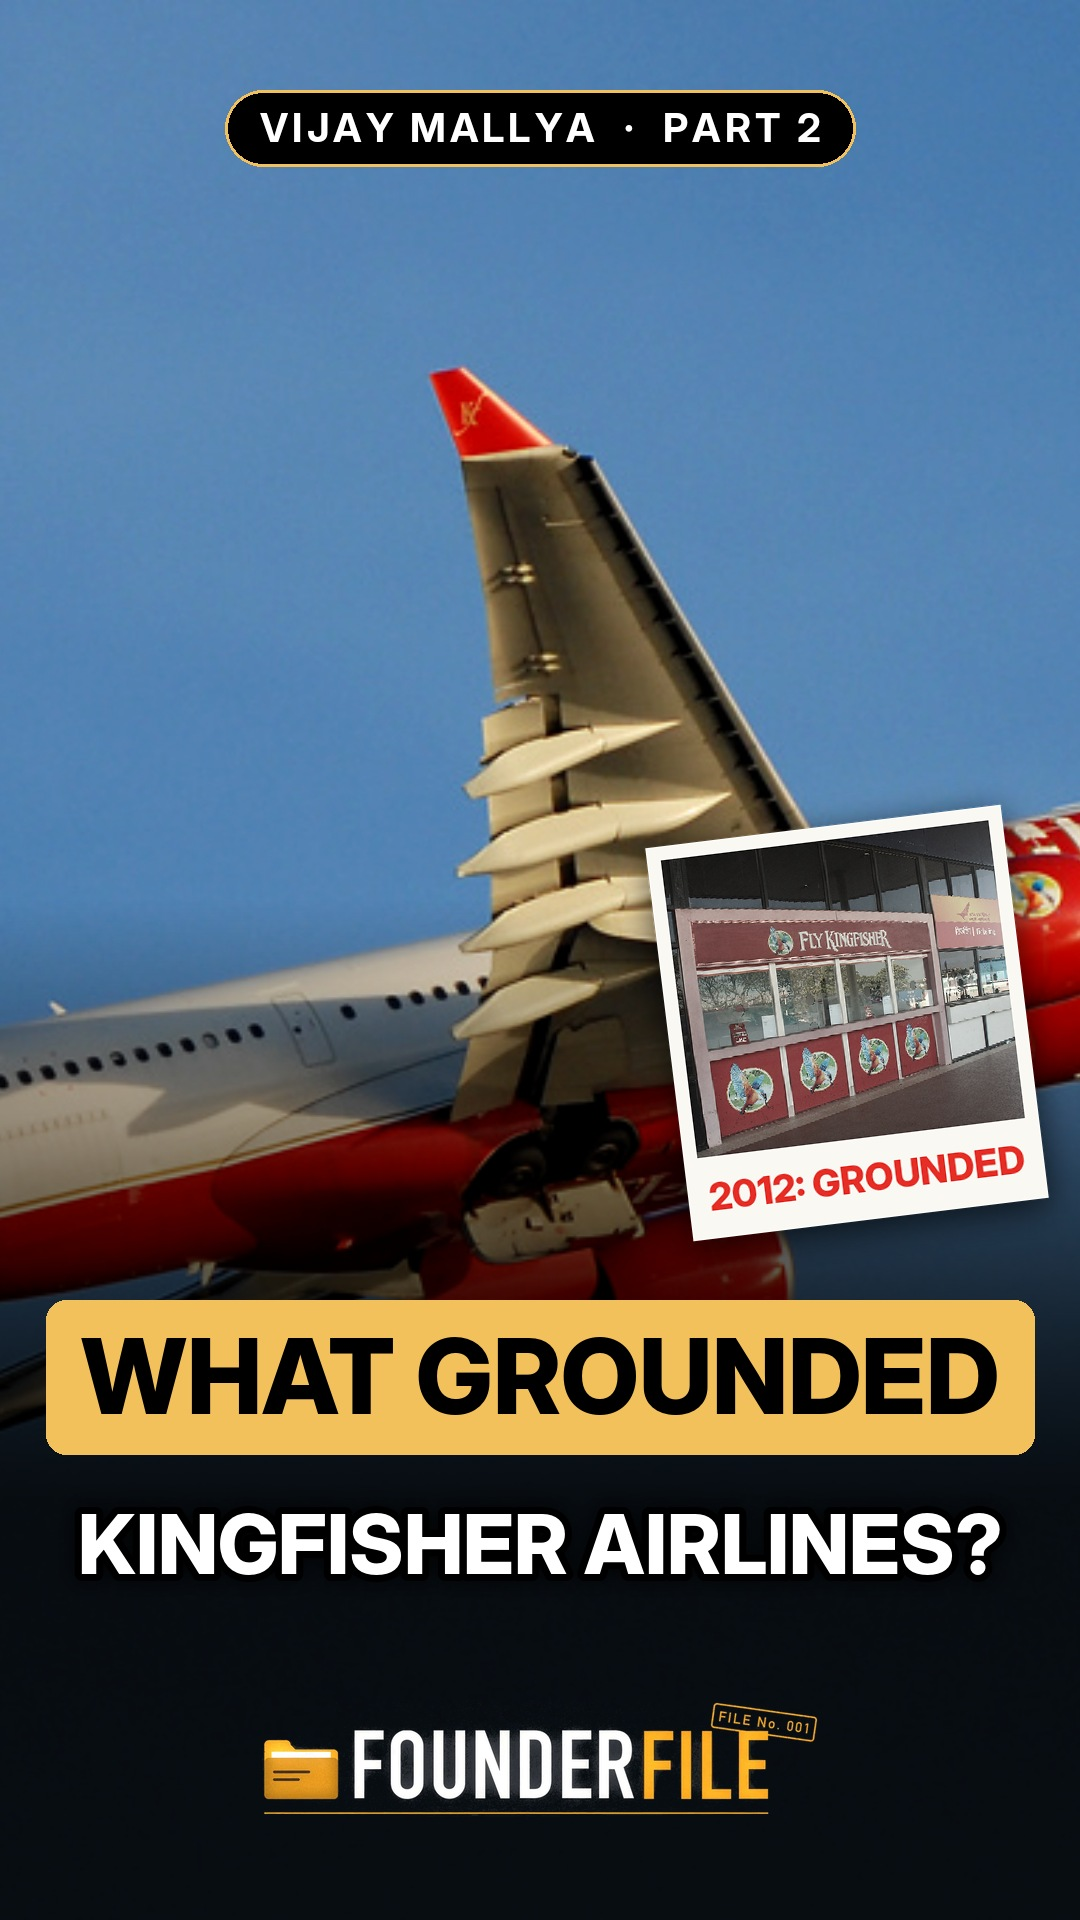
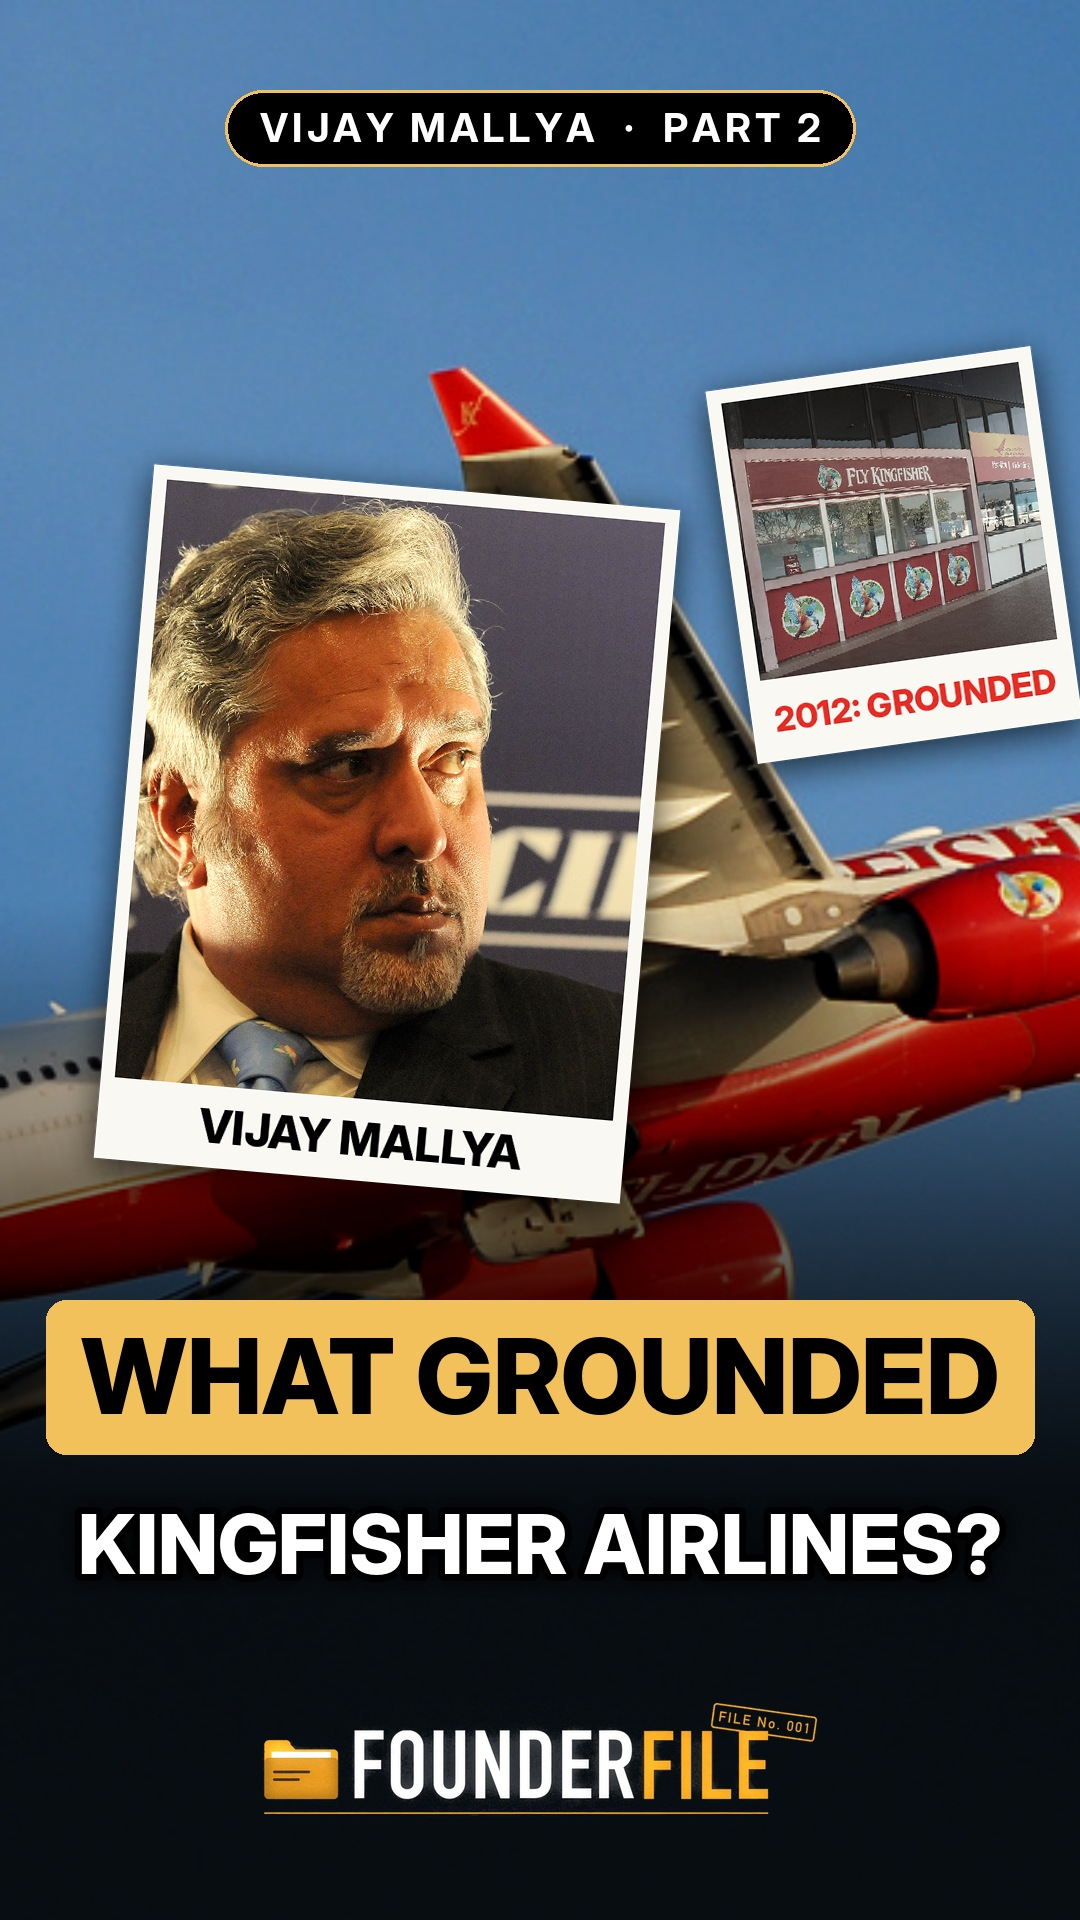
Reel Part 2 cover: add Vijay Mallya photo
Claude-Session: https://claude.ai/code/session_01PWFXBpQKMMD3nwmcCn3EkJ

diff --git a/video_output/vijay_mallya/source/thumbs_mallya.py b/video_output/vijay_mallya/source/thumbs_mallya.py
@@ -99,7 +99,7 @@ def cover(n, bg, l1, l2, l2col, pol=None, part=None):
     pill = f"VIJAY MALLYA  ·  PART {n}"; pw = RL.tw(pill, "b", 40, 4) + 70
     d.rounded_rectangle([W / 2 - pw / 2, 90, W / 2 + pw / 2, 166], radius=38, fill=(0, 0, 0, 170), outline=GOLD + (230,), width=3)
     put(base, RL.stext(pill, "b", 40, WHITE, track=4, shadow=False), W / 2, 128, "mm")
-    if pol: base.alpha_composite(pol[0], pol[1])
+    for p_ in ([pol] if isinstance(pol, tuple) else (pol or [])): base.alpha_composite(p_[0], p_[1])
     f1 = fit(l1, "xb", 120, W - 160); w1 = RL.tw(l1, "xb", f1) + 70
     d = ImageDraw.Draw(base); d.rounded_rectangle([W / 2 - w1 / 2, 1300, W / 2 + w1 / 2, 1300 + f1 + 50], radius=20, fill=GOLD + (255,))
     put(base, RL.stext(l1, "xb", f1, BLACK, shadow=False), W / 2, 1300 + (f1 + 50) / 2, "mm")
@@ -114,7 +114,8 @@ def reels():
     cover(1, bg1, "KING OF GOOD TIMES", "WHAT WENT WRONG?", RED)
     bg2 = photo("a330c", "neutral", (W, H), 1.0, 0.25, 0)
     cover(2, bg2, "WHAT GROUNDED", "KINGFISHER AIRLINES?", WHITE,
-          pol=(polaroid("kfcounter", "faded", (330, 300), 1.1, 0.2, 0, 7, "2012: GROUNDED"), (600, 760)))
+          pol=[(polaroid("kfcounter", "faded", (300, 280), 1.1, 0.2, 0, 8, "2012: GROUNDED"), (660, 300)),
+               (polaroid("mallya_wef", "warm", (500, 600), 1.2, 0.42, -0.35, -5, "VIJAY MALLYA", lab_col=BLACK), (50, 420))])
     bg3 = vframe(26852, 4.0, (W, H))
     cover(3, bg3, "HOW DID HE END UP", "IN THE UK?", WHITE,
           pol=(polaroid("mallya_wef", "bw", (360, 400), 1.15, 0.4, -0.3, -6, "VIJAY MALLYA"), (60, 620)))
